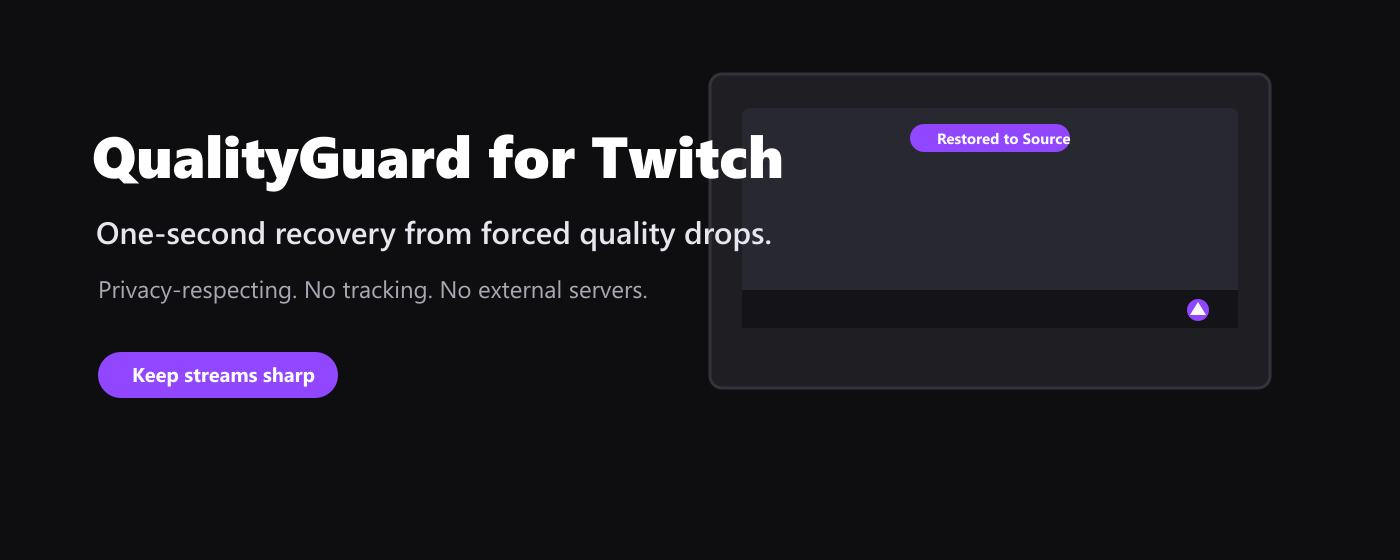
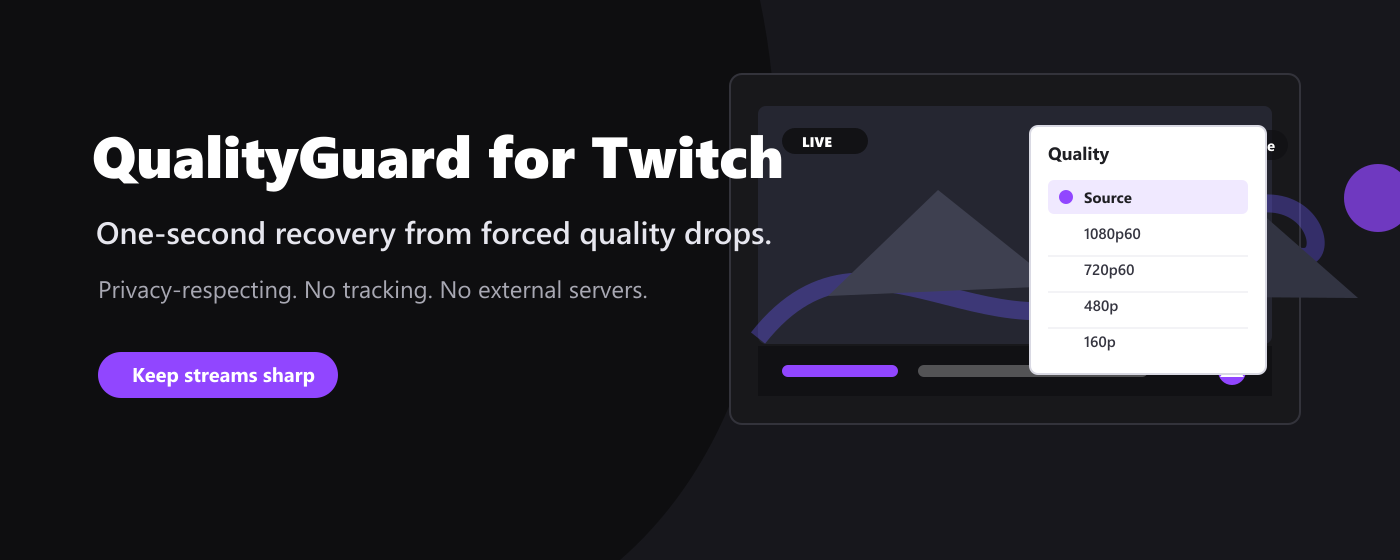
docs: polish Chrome Web Store promo graphics

diff --git a/scripts/render-store-assets.js b/scripts/render-store-assets.js
@@ -20,6 +20,45 @@ function text(x, y, content, size, weight = 600, fill = '#FFFFFF') {
   return `<text x="${x}" y="${y}" font-family="Inter, Segoe UI, Arial, sans-serif" font-size="${size}" font-weight="${weight}" fill="${fill}">${esc(content)}</text>`;
 }
 
+function fauxFrame(x, y, w, h) {
+  const left = x + 28;
+  const top = y + 32;
+  return `
+  <rect x="${x}" y="${y}" width="${w}" height="${h}" rx="12" fill="#18181B" stroke="#33333B" stroke-width="2"/>
+  <rect x="${left}" y="${top}" width="${w - 56}" height="${h - 112}" rx="8" fill="#252631"/>
+  <path d="M${left} ${top + h - 118} C${left + 120} ${top + h - 270}, ${left + 250} ${top + h - 50}, ${left + 410} ${top + h - 200} S${left + 600} ${top + h - 120}, ${left + w - 70} ${top + h - 230}" fill="none" stroke="#6B5CFF" stroke-width="18" opacity="0.34"/>
+  <path d="M${left + 70} ${top + h - 160} L${left + 180} ${top + 84} L${left + 300} ${top + h - 170} Z" fill="#3E4050"/>
+  <path d="M${left + 330} ${top + h - 160} L${left + 454} ${top + 64} L${left + 600} ${top + h - 158} Z" fill="#323442"/>
+  <circle cx="${left + 620}" cy="${top + 92}" r="34" fill="#9146FF" opacity="0.72"/>
+  <rect x="${left + 24}" y="${top + 22}" width="86" height="26" rx="13" fill="#0E0E10" opacity="0.84"/>
+  ${text(left + 44, top + 41, 'LIVE', 14, 850)}
+  <rect x="${left + w - 260}" y="${top + 24}" width="220" height="30" rx="15" fill="#101014" opacity="0.76"/>
+  ${text(left + w - 238, top + 45, 'Quality restored to Source', 15, 800)}
+  <rect x="${left}" y="${y + h - 78}" width="${w - 56}" height="50" fill="#101014" opacity="0.92"/>
+  <rect x="${left + 24}" y="${y + h - 59}" width="116" height="12" rx="6" fill="#9146FF"/>
+  <rect x="${left + 160}" y="${y + h - 59}" width="230" height="12" rx="6" fill="#FFFFFF" opacity="0.28"/>
+  <circle cx="${left + w - 96}" cy="${y + h - 53}" r="14" fill="#9146FF"/>
+  <path d="M${left + w - 96} ${y + h - 63} L${left + w - 84} ${y + h - 47} H${left + w - 108} Z" fill="#FFFFFF"/>
+  `;
+}
+
+function qualityMenu(x, y) {
+  return `
+  <rect x="${x}" y="${y}" width="236" height="248" rx="8" fill="#FFFFFF" stroke="#D9D9E3" stroke-width="2"/>
+  ${text(x + 18, y + 34, 'Quality', 18, 800, '#1F1F23')}
+  <rect x="${x + 18}" y="${y + 54}" width="200" height="34" rx="6" fill="#F0E9FF"/>
+  <circle cx="${x + 36}" cy="${y + 71}" r="7" fill="#9146FF"/>
+  ${text(x + 54, y + 77, 'Source', 15, 800, '#1F1F23')}
+  ${text(x + 54, y + 113, '1080p60', 15, 600, '#353540')}
+  ${text(x + 54, y + 149, '720p60', 15, 600, '#353540')}
+  ${text(x + 54, y + 185, '480p', 15, 600, '#353540')}
+  ${text(x + 54, y + 221, '160p', 15, 600, '#353540')}
+  <line x1="${x + 18}" y1="${y + 130}" x2="${x + 218}" y2="${y + 130}" stroke="#E7E7EE"/>
+  <line x1="${x + 18}" y1="${y + 166}" x2="${x + 218}" y2="${y + 166}" stroke="#E7E7EE"/>
+  <line x1="${x + 18}" y1="${y + 202}" x2="${x + 218}" y2="${y + 202}" stroke="#E7E7EE"/>
+  `;
+}
+
 async function writePng(name, width, height, body) {
   await sharp(Buffer.from(svgShell(width, height, body)))
     .flatten({ background: '#0E0E10' })
@@ -40,16 +79,8 @@ console.log('wrote store/assets/store-icon-128.png');
 
 await writePng('store/screenshots/qualityguard-popup-1280x800.png', 1280, 800, `
   <rect x="0" y="0" width="1280" height="800" fill="#0E0E10"/>
-  <rect x="88" y="82" width="760" height="428" rx="10" fill="#18181B"/>
-  <rect x="88" y="82" width="760" height="428" rx="10" fill="none" stroke="#2F2F35" stroke-width="2"/>
-  <rect x="112" y="108" width="712" height="336" rx="8" fill="#26262C"/>
-  <rect x="112" y="388" width="712" height="56" fill="#121216" opacity="0.86"/>
-  <rect x="376" y="120" width="184" height="28" rx="14" fill="#9146FF"/>
-  ${text(408, 140, 'Quality restored to Source', 16, 700)}
-  <rect x="132" y="408" width="96" height="16" rx="8" fill="#9146FF"/>
-  <rect x="248" y="408" width="196" height="16" rx="8" fill="#FFFFFF" opacity="0.26"/>
-  <circle cx="728" cy="416" r="14" fill="#9146FF"/>
-  <path d="M728 406 L738 421 H718 Z" fill="#FFFFFF"/>
+  ${fauxFrame(76, 76, 790, 456)}
+  ${qualityMenu(610, 174)}
 
   <rect x="900" y="96" width="300" height="436" rx="8" fill="#FFFFFF"/>
   <rect x="900" y="96" width="300" height="436" rx="8" fill="none" stroke="#D8D8E0" stroke-width="2"/>
@@ -90,13 +121,9 @@ await writePng('store/assets/small-promo-440x280.png', 440, 280, `
 
 await writePng('store/assets/marquee-promo-1400x560.png', 1400, 560, `
   <rect width="1400" height="560" fill="#0E0E10"/>
-  <rect x="710" y="74" width="560" height="314" rx="12" fill="#1F1F23" stroke="#33333B" stroke-width="3"/>
-  <rect x="742" y="108" width="496" height="220" rx="8" fill="#282830"/>
-  <rect x="742" y="290" width="496" height="38" fill="#111116" opacity="0.92"/>
-  <rect x="910" y="124" width="160" height="28" rx="14" fill="#9146FF"/>
-  ${text(937, 144, 'Restored to Source', 15, 800)}
-  <circle cx="1198" cy="310" r="11" fill="#9146FF"/>
-  <path d="M1198 302 L1206 315 H1190 Z" fill="#FFFFFF"/>
+  <path d="M760 0 H1400 V560 H620 C770 430 800 192 760 0 Z" fill="#17171C"/>
+  ${fauxFrame(730, 74, 570, 350)}
+  ${qualityMenu(1030, 126)}
   ${text(92, 178, 'QualityGuard for Twitch', 58, 850)}
   ${text(96, 244, 'One-second recovery from forced quality drops.', 31, 600, '#E6E6EE')}
   ${text(98, 298, 'Privacy-respecting. No tracking. No external servers.', 24, 500, '#A8A8B3')}